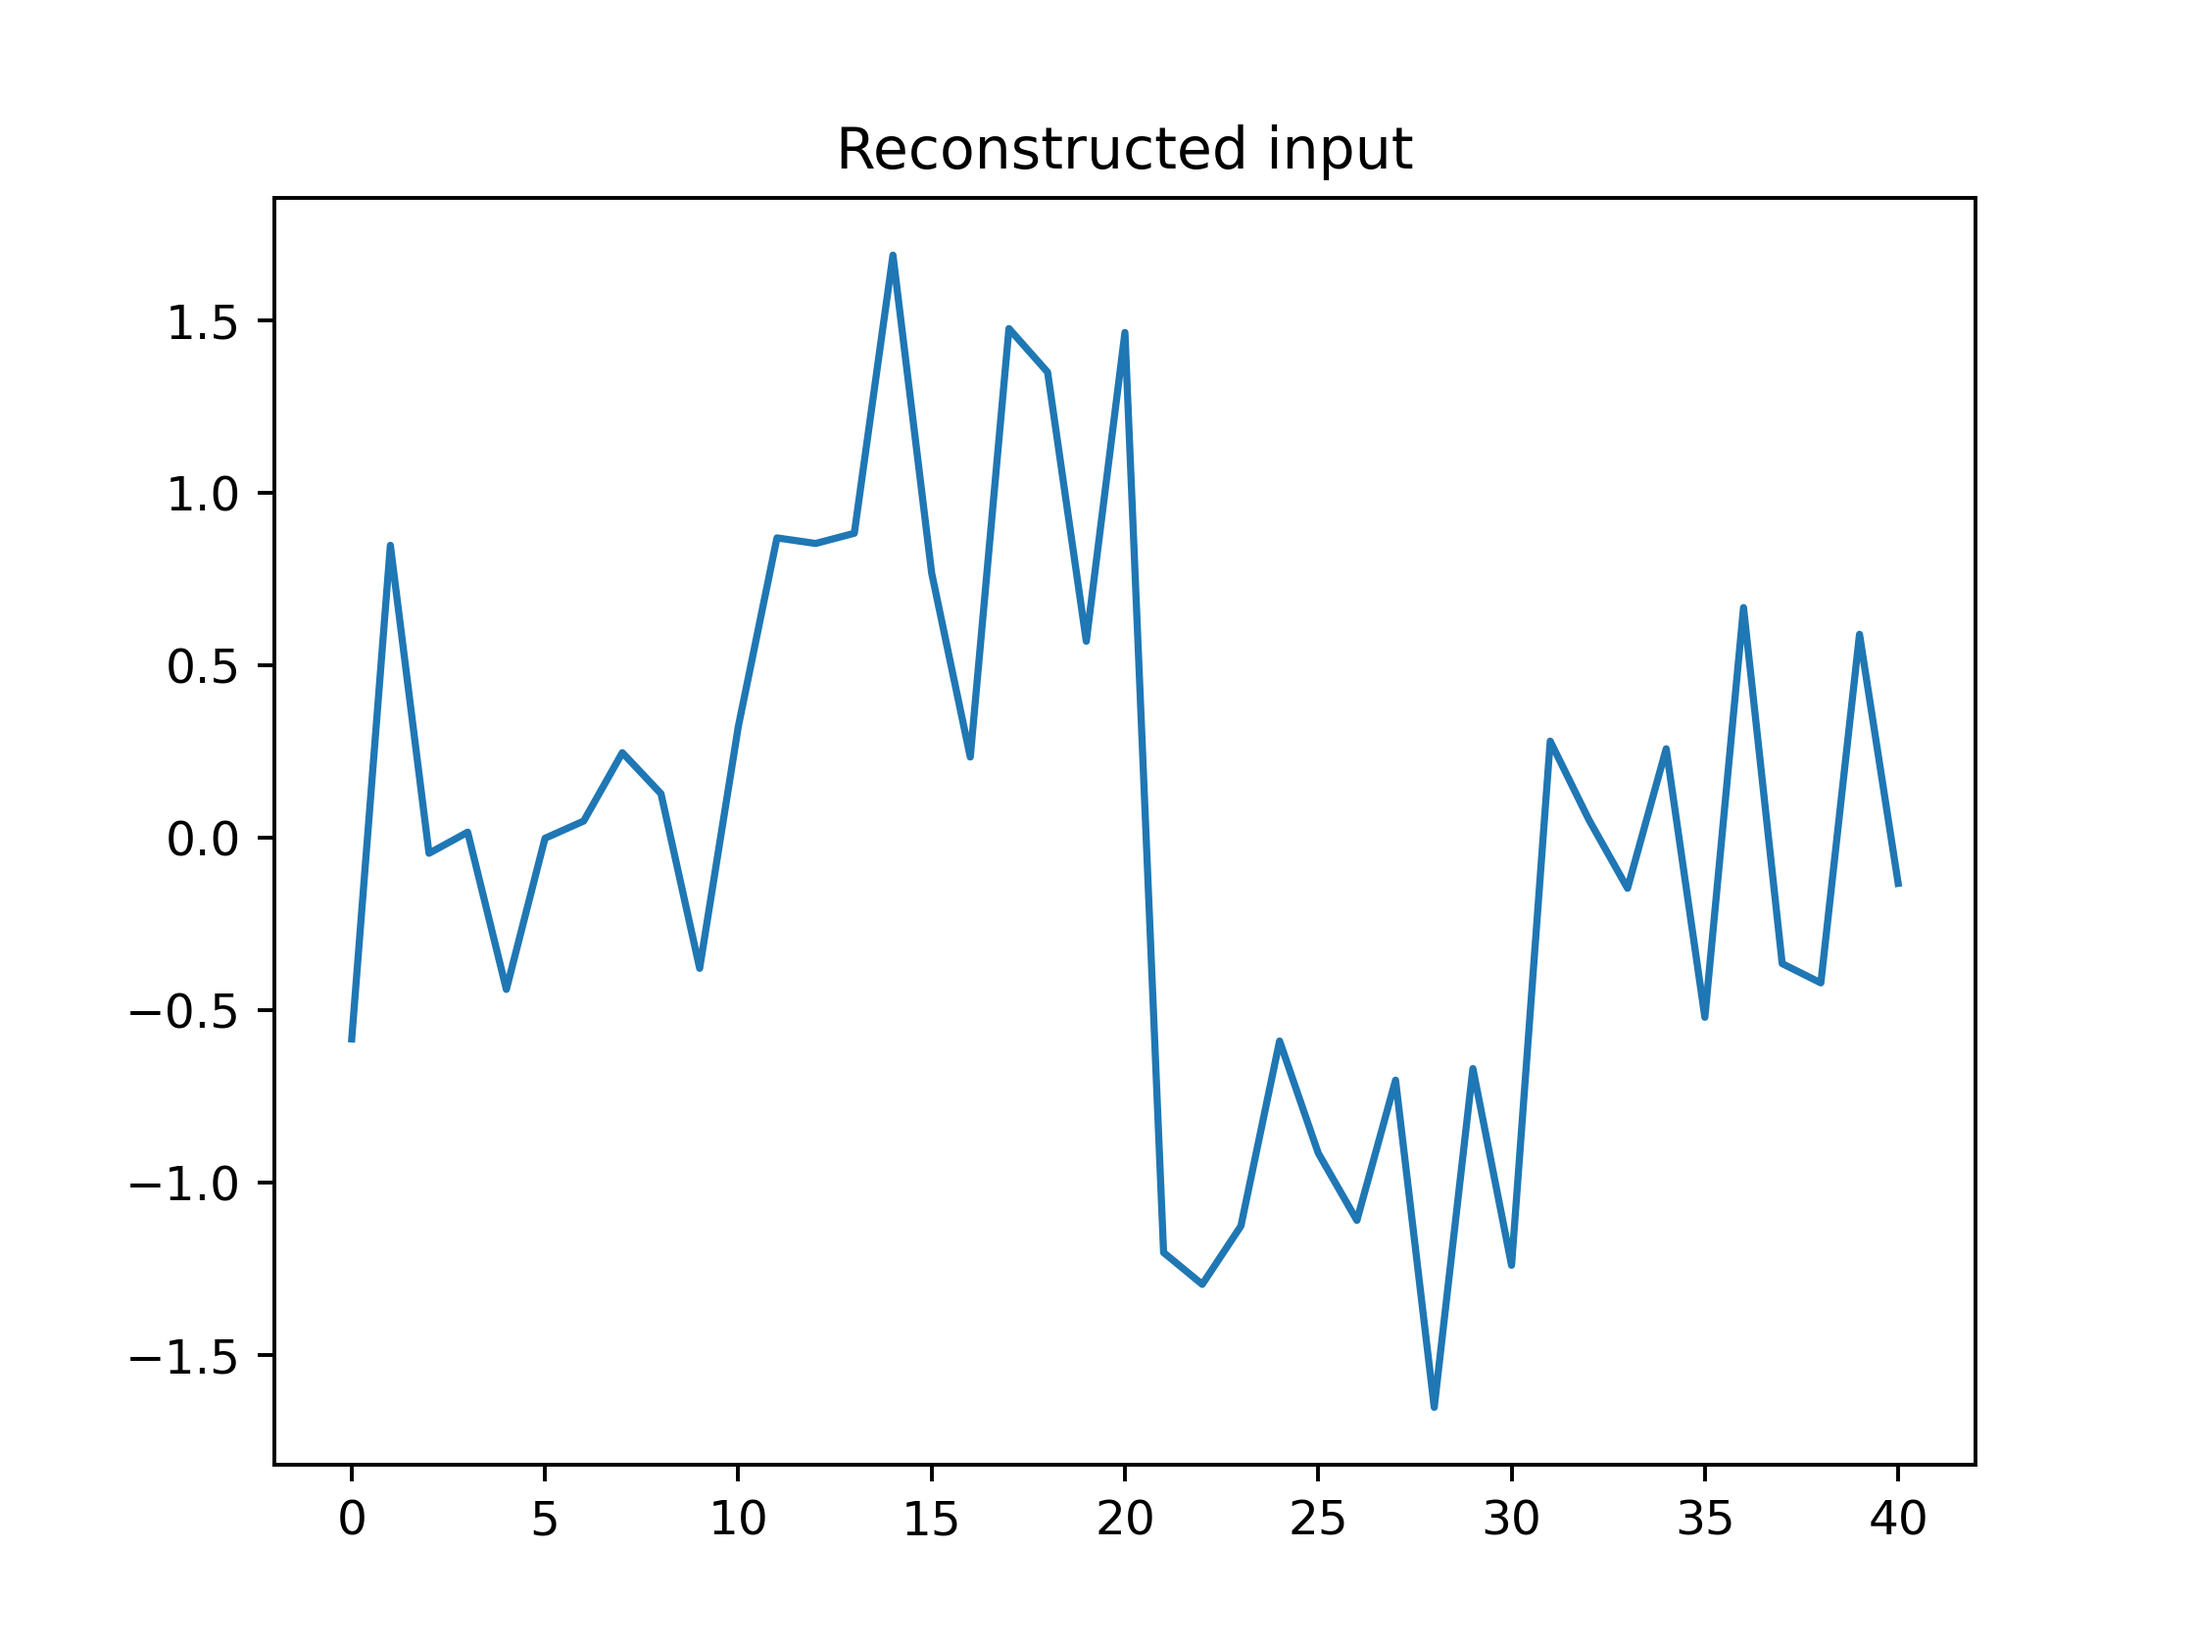
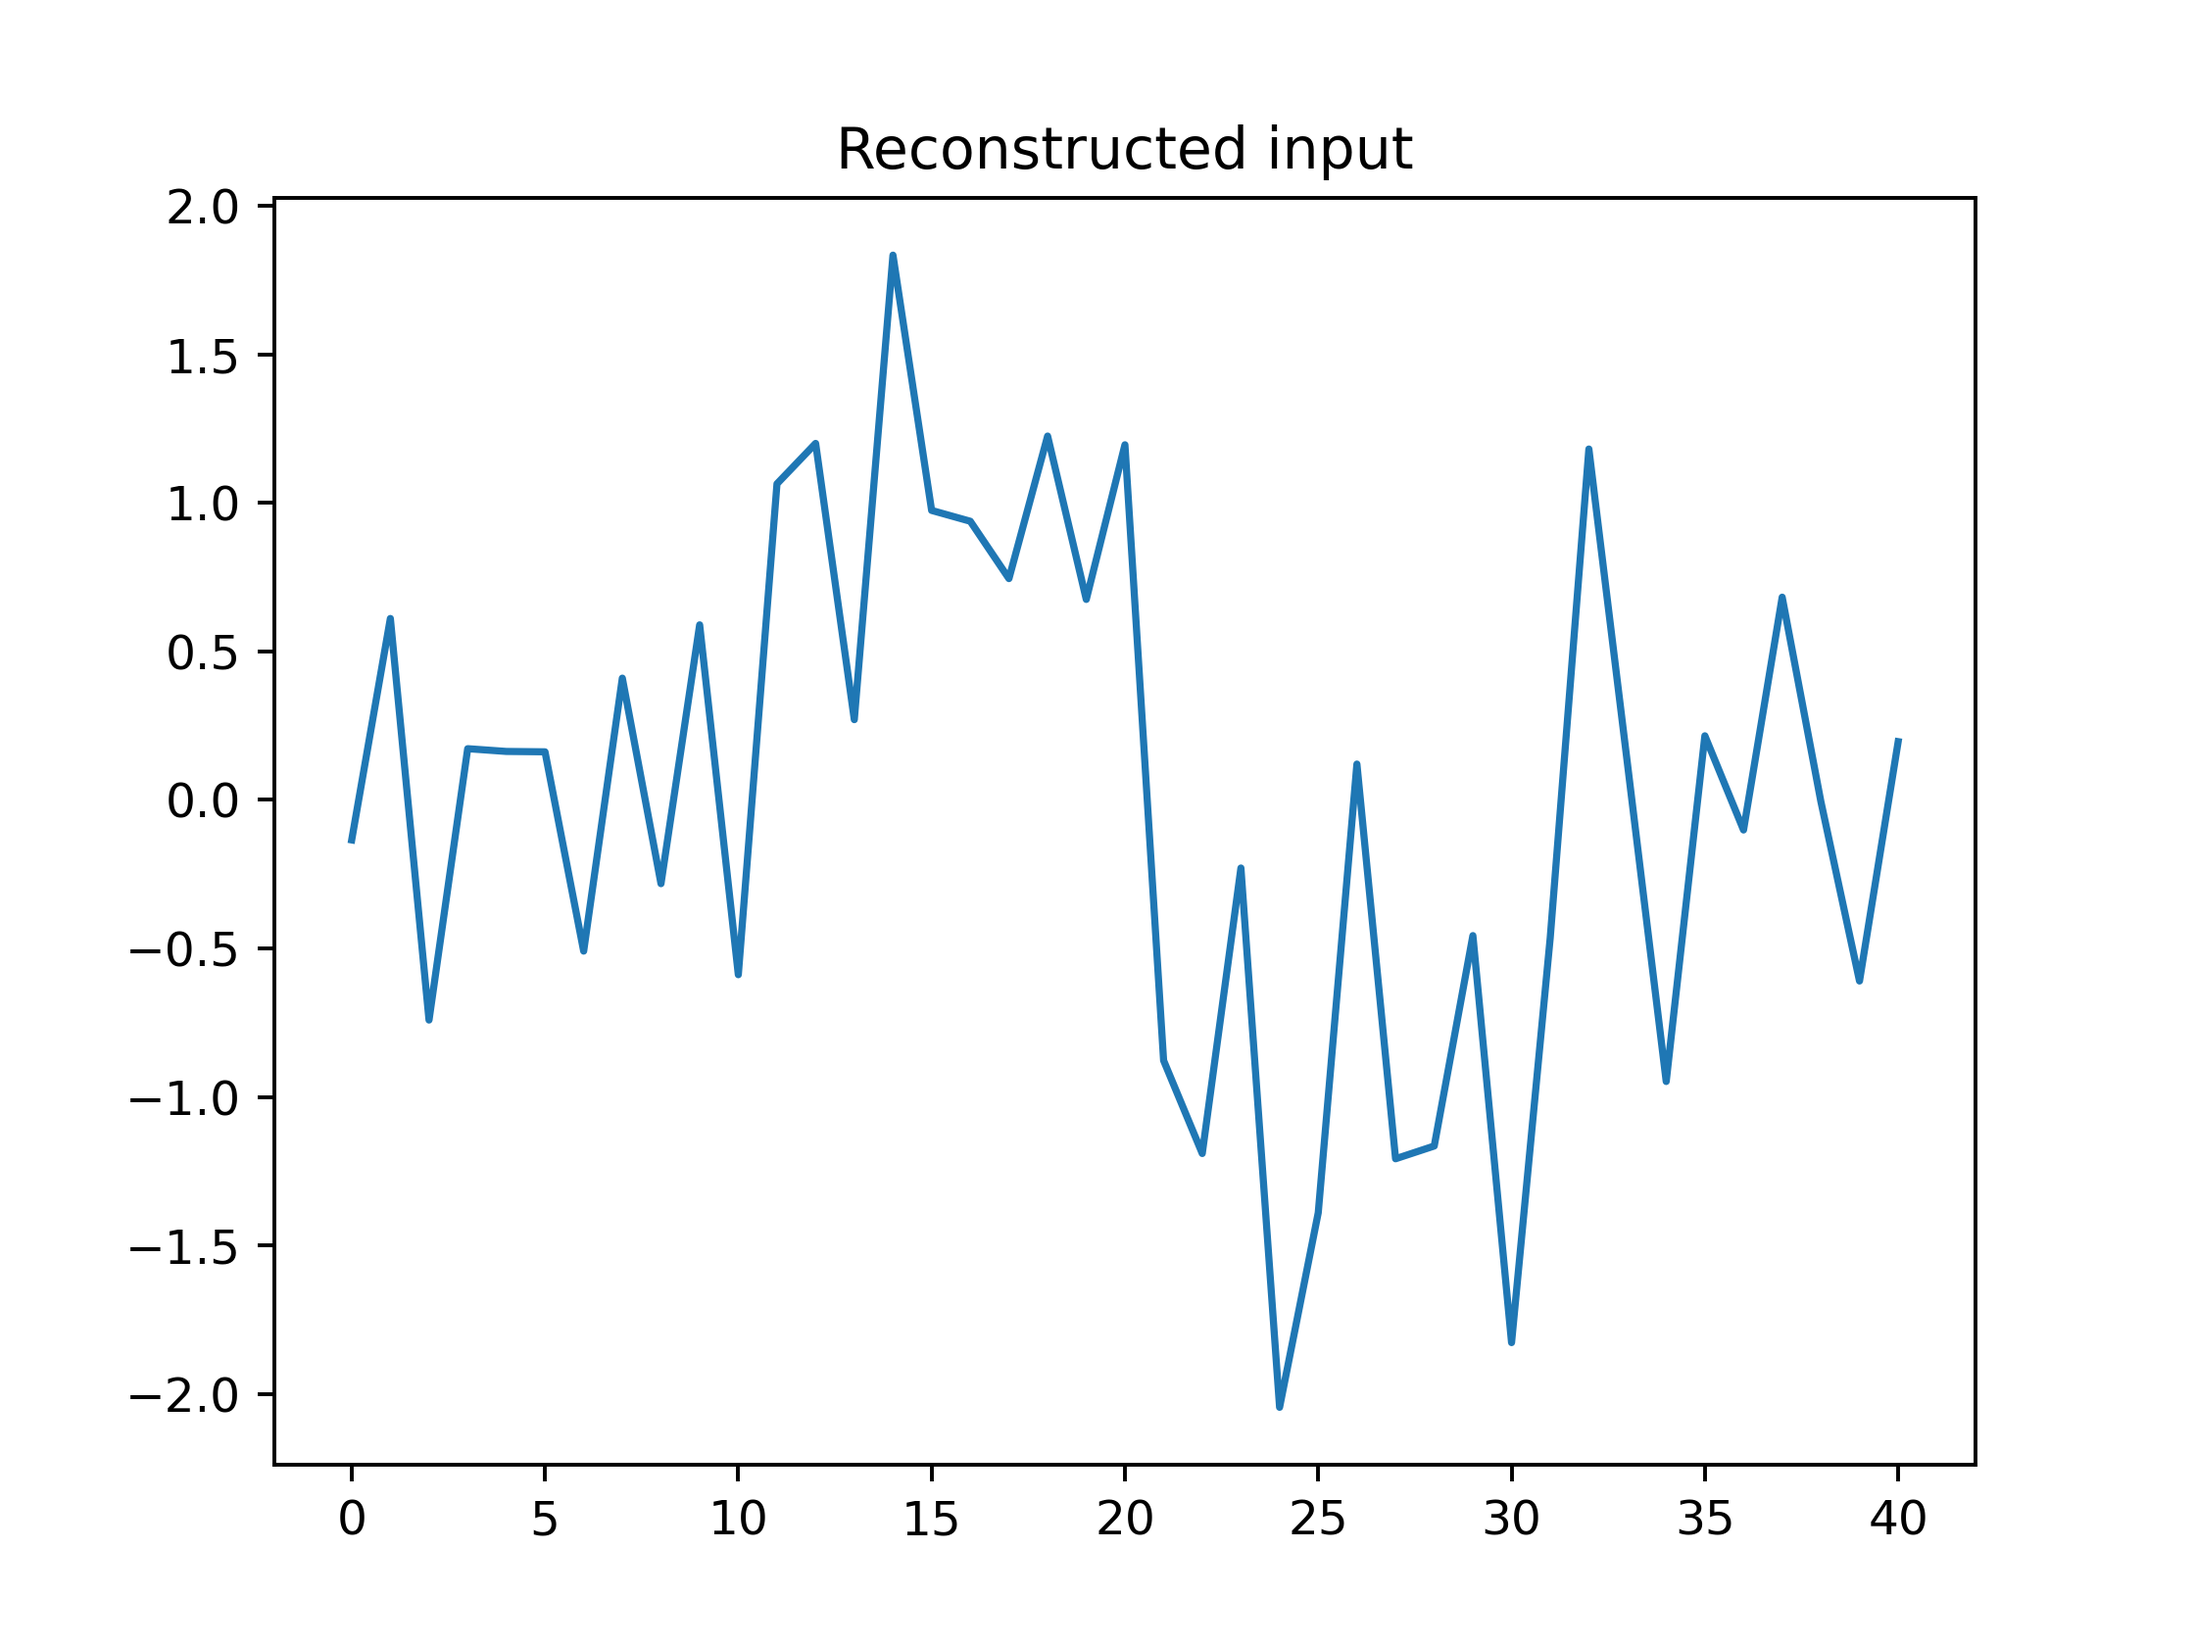
small change in recon

diff --git a/Motivation_1D.py b/Motivation_1D.py
@@ -5,8 +5,10 @@ from scipy import linalg
 import matplotlib.pyplot as plt
 
 # parameters
+# no. of elements in psf array
 psf_size = 10
-noise_level = 0.01
+# std of noise
+noise_level = 0.005
 
 # Creating input
 x1,x2,x3,x4 = [0]*11,[1]*10,[-1]*10,[0]*10
@@ -30,12 +32,12 @@ A = linalg.toeplitz(p,p)
 print("cond of A is",np.linalg.cond(A))
 
 # Adding noise
-noise = noise_level*np.random.rand(x.size)
+noise = np.random.normal(0,noise_level,size=x.size)
 b_smooth = A@x
-b_smooth += noise
+b_smooth_noise = b_smooth + noise
 
 # Recreating input signal
-x_solve = linalg.solve(A,b_smooth)
+x_solve = linalg.solve(A,b_smooth_noise)
 
 # Plotting results
 plt.figure(0)
@@ -44,7 +46,7 @@ plt.title("Input signal")
 
 plt.figure(1)
 plt.plot(range(x.size),x,label = "True signal")
-plt.plot(range(b_smooth.size),b_smooth, label = "Blurred signal")
+plt.plot(range(b_smooth_noise.size),b_smooth_noise, label = "Blurred signal")
 #plt.title("True and blurred signal", fontsize = 18)
 plt.legend(loc =2, fontsize = 8)
 # small plot
@@ -70,4 +72,3 @@ plt.savefig("bad_recon.png", dpi = 350)
 # sub[1].set_title("Input + blurred input")
 # sub[2].plot(range(x.size),x_solve)
 # sub[2].set_title("Reconstructed input signal")
-# %%
